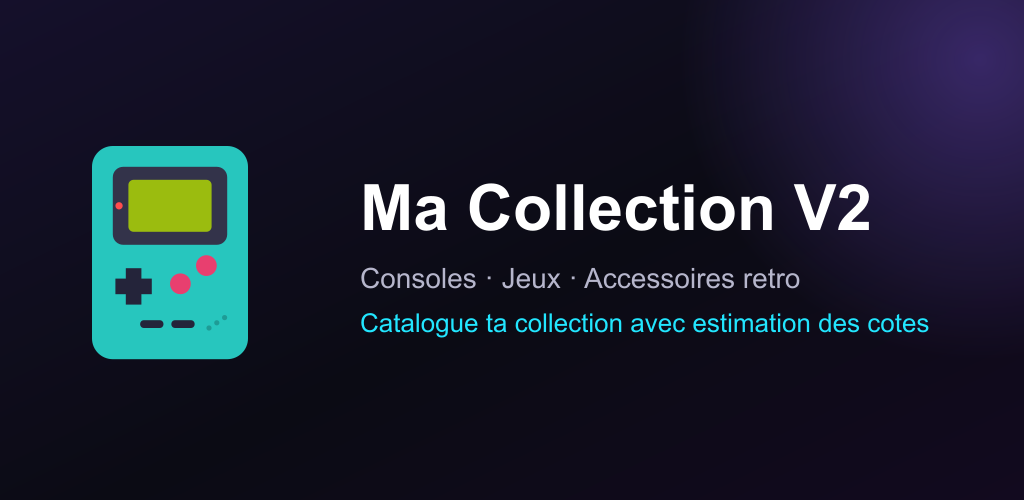
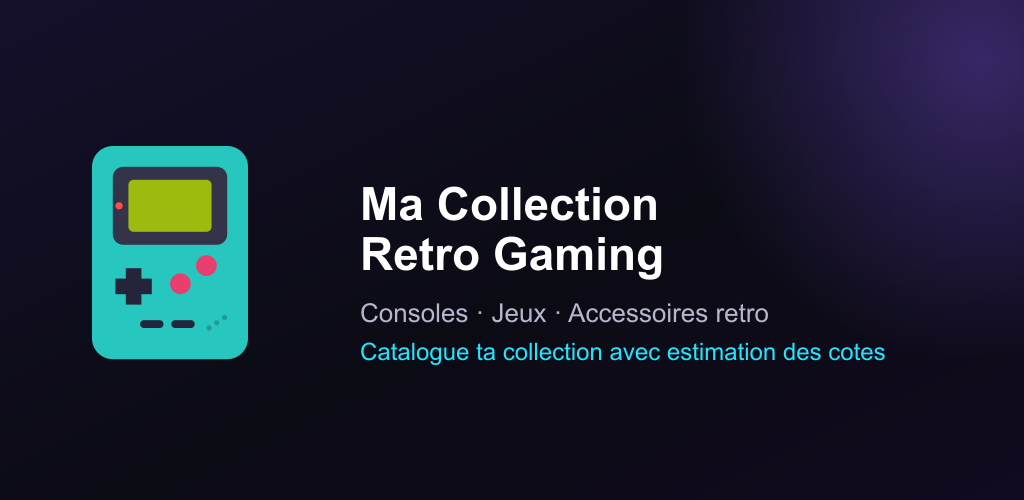
Renomme l'app en "Ma Collection Retro Gaming"
Remplace "Ma Collection V2" partout ou le nom public de l'app apparait : app_name,
labels des editions TEST/SP, fiche Store, checklist de release, politique de
confidentialite, et banniere de presentation regeneree avec le nouveau titre.

Changed region(s): [[0.3438, 0.36, 0.9062, 0.72]]

diff --git a/docs/privacy-policy.html b/docs/privacy-policy.html
@@ -3,7 +3,7 @@
 <head>
 <meta charset="utf-8">
 <meta name="viewport" content="width=device-width, initial-scale=1">
-<title>Politique de confidentialité — Ma Collection V2</title>
+<title>Politique de confidentialité — Ma Collection Retro Gaming</title>
 <style>
   body { font-family: -apple-system, Segoe UI, Roboto, sans-serif; max-width: 780px; margin: 0 auto; padding: 24px 20px 60px; line-height: 1.6; color: #1a1a1a; }
   h1 { font-size: 1.6rem; }
@@ -20,10 +20,10 @@
 <div class="lang-switch"><a href="#fr">🇫🇷 Français</a> · <a href="#en">🇬🇧 English</a></div>
 
 <section id="fr">
-<h1>Politique de confidentialité — Ma Collection V2</h1>
+<h1>Politique de confidentialité — Ma Collection Retro Gaming</h1>
 <p class="updated">Dernière mise à jour : 4 août 2026</p>
 
-<p>Ma Collection V2 (<code>com.nawash.macollection</code>) est une application Android qui permet de cataloguer une collection de jeux vidéo, consoles et accessoires rétro. Cette page explique quelles données sont traitées et pourquoi.</p>
+<p>Ma Collection Retro Gaming (<code>com.nawash.macollection</code>) est une application Android qui permet de cataloguer une collection de jeux vidéo, consoles et accessoires rétro. Cette page explique quelles données sont traitées et pourquoi.</p>
 
 <h2>Aucun compte, aucune donnée personnelle collectée par l'éditeur</h2>
 <p>L'application ne demande ni compte, ni nom, ni e‑mail, ni identifiant. Les données de ta collection (objets, prix, photos, notes) sont stockées <strong>localement sur ton téléphone</strong> (base de données interne) et ne sont jamais envoyées à un serveur de l'éditeur — il n'en existe pas. L'appareil profite de la sauvegarde automatique d'Android (<em>Auto Backup</em>), liée à ton compte Google au niveau du système d'exploitation, pas de l'application elle-même.</p>
@@ -63,10 +63,10 @@
 <hr style="margin: 3em 0;">
 
 <section id="en">
-<h1>Privacy Policy — Ma Collection V2</h1>
+<h1>Privacy Policy — Ma Collection Retro Gaming</h1>
 <p class="updated">Last updated: August 4, 2026</p>
 
-<p>Ma Collection V2 (<code>com.nawash.macollection</code>) is an Android app for cataloging a retro video game, console and accessory collection. This page explains what data is processed and why.</p>
+<p>Ma Collection Retro Gaming (<code>com.nawash.macollection</code>) is an Android app for cataloging a retro video game, console and accessory collection. This page explains what data is processed and why.</p>
 
 <h2>No account, no personal data collected by the publisher</h2>
 <p>The app does not require an account, name, email, or login. Your collection data (items, prices, photos, notes) is stored <strong>locally on your phone</strong> (internal database) and is never sent to a publisher server — none exists. The app benefits from Android's system-level Auto Backup, tied to your Google account at the OS level, not by the app itself.</p>

diff --git a/docs/store/fiche-play-store.md b/docs/store/fiche-play-store.md
@@ -1,12 +1,12 @@
-# Fiche Play Store — Ma Collection V2
+# Fiche Play Store — Ma Collection Retro Gaming
 
 À copier-coller dans Play Console → Présence sur le Store → Fiche Store principale.
 
 ## Titre (30 caractères max)
 ```
-Ma Collection V2
+Ma Collection Retro Gaming
 ```
-(16 caractères — OK)
+(26 caractères — OK)
 
 ## Description courte (80 caractères max)
 ```
@@ -16,7 +16,7 @@ Catalogue ta collection de jeux, consoles et accessoires rétro
 
 ## Description complète (4000 caractères max) — Français
 ```
-Ma Collection V2 t'aide à cataloguer ta collection de jeux vidéo, consoles et accessoires rétro : de l'Atari 2600 à aujourd'hui, plus de 600 consoles et 80 accessoires déjà répertoriés dans l'encyclopédie intégrée.
+Ma Collection Retro Gaming t'aide à cataloguer ta collection de jeux vidéo, consoles et accessoires rétro : de l'Atari 2600 à aujourd'hui, plus de 600 consoles et 80 accessoires déjà répertoriés dans l'encyclopédie intégrée.
 
 📷 AJOUT RAPIDE
 Scanne un code-barres (jeux), prends une photo (jeux, consoles et accessoires, reconnaissance automatique par IA), choisis une photo dans ta galerie, ou saisis tout à la main. Scanne aussi une étagère entière d'un coup : l'IA isole chaque jeu ou console détecté.
@@ -42,13 +42,13 @@ Français, anglais, espagnol, italien, allemand, portugais, russe, grec, turc, j
 🎨 THÈMES PERSONNALISABLES
 Choisis un thème visuel à débloquer, et change l'image de fond de l'application.
 
-Ma Collection V2 est gratuite, financée par des publicités discrètes (bannière + interstitiel + pub récompensée optionnelle). Des abonnements Premium (mensuel ou annuel) ou un achat à vie retirent les limites et débloquent l'accès complet aux mini-jeux et à la boutique.
+Ma Collection Retro Gaming est gratuite, financée par des publicités discrètes (bannière + interstitiel + pub récompensée optionnelle). Des abonnements Premium (mensuel ou annuel) ou un achat à vie retirent les limites et débloquent l'accès complet aux mini-jeux et à la boutique.
 ```
 (≈1900 caractères — OK)
 
 ## Full description (4000 char max) — English
 ```
-Ma Collection V2 helps you catalog your retro video game, console and accessory collection: from the Atari 2600 to today, over 600 consoles and 80 accessories already listed in the built-in encyclopedia.
+Ma Collection Retro Gaming helps you catalog your retro video game, console and accessory collection: from the Atari 2600 to today, over 600 consoles and 80 accessories already listed in the built-in encyclopedia.
 
 📷 QUICK ADD
 Scan a barcode (games), take a photo (games, consoles and accessories, automatic AI recognition), pick a photo from your gallery, or enter everything manually. You can also scan a whole shelf at once: the AI isolates each detected game or console.
@@ -74,7 +74,7 @@ French, English, Spanish, Italian, German, Portuguese, Russian, Greek, Turkish, 
 🎨 CUSTOMIZABLE THEMES
 Unlock a visual theme, and change the app's background image.
 
-Ma Collection V2 is free, funded by unobtrusive ads (banner + interstitial + optional rewarded ad). Premium subscriptions (monthly or yearly) or a lifetime purchase remove the limits and unlock full access to the mini-games and shop.
+Ma Collection Retro Gaming is free, funded by unobtrusive ads (banner + interstitial + optional rewarded ad). Premium subscriptions (monthly or yearly) or a lifetime purchase remove the limits and unlock full access to the mini-games and shop.
 ```
 
 ## Catégorie suggérée

diff --git a/docs/store/RELEASE_CHECKLIST.md b/docs/store/RELEASE_CHECKLIST.md
@@ -1,4 +1,4 @@
-# Checklist mise en ligne Play Store — Ma Collection V2
+# Checklist mise en ligne Play Store — Ma Collection Retro Gaming
 
 ## ✅ Fait automatiquement (mise à jour 2026-08-29 — version 2.12 (16))
 - [x] Encyclopédie : le mode "Jeux" autonome est remplacé par une liste de jeux enrichie
